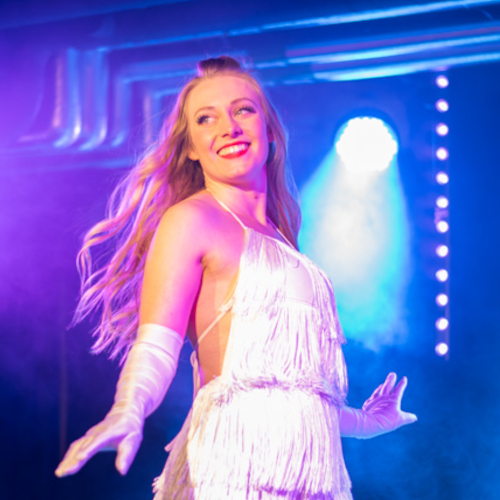
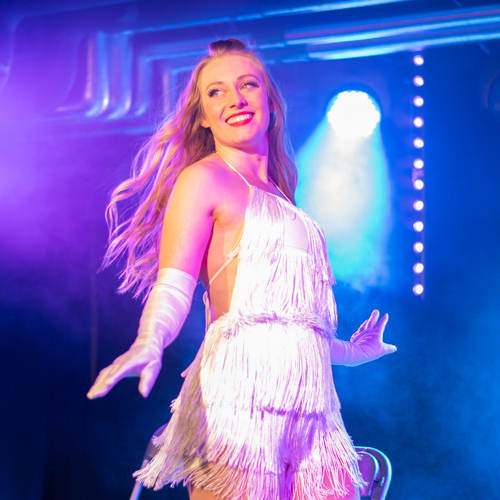
Update Hannas image and FAQ

diff --git a/src/pages/om-oss.vue b/src/pages/om-oss.vue
@@ -49,12 +49,19 @@
       <div class="section__content">
         <h2>Grundare</h2>
         <p>
-          Femme Fusion grundades 2023 av fyra artister med en gemensam vision om att skapa professionell underhållning med dans, sång och stark scennärvaro. Som grundare sätter vi tonen, kvaliteten och uttrycket i det vi gör.
+          Femme Fusion grundades 2023 av fyra artister med en gemensam vision om att skapa professionell underhållning
+          med dans, sång och stark scennärvaro. Som grundare sätter vi tonen, kvaliteten och uttrycket i det vi gör.
         </p>
         <div class="about__members">
           <figure v-for="m in founders" :key="m.name" class="about__member about__member--founder">
-            <NuxtImg :src="m.src" :alt="`Porträtt av ${m.name}, grundare i Femme Fusion`" class="image"
-              sizes="(max-width: 640px) 100vw, (max-width: 1024px) 50vw, 25vw" format="webp" loading="lazy" />
+            <NuxtImg
+              :src="m.src"
+              :alt="`Porträtt av ${m.name}, grundare i Femme Fusion`"
+              class="image"
+              sizes="(max-width: 640px) 100vw, (max-width: 1024px) 50vw, 25vw"
+              format="webp"
+              loading="lazy"
+            />
             <figcaption>
               <strong>{{ m.name }}</strong>
             </figcaption>
@@ -67,12 +74,20 @@
       <div class="section__content">
         <h2>Showartister i Femme Fusion</h2>
         <p>
-          Femme Fusion består av flera showartister som har mångsidiga och varierade bakgrunder inom dans, sång och underhållning. Det gör att vi kan skapa dynamiska och minnesvärda nummer där showens uttryck och omfattning anpassas efter event, publik och scen.
+          Femme Fusion består av flera showartister som har mångsidiga och varierade bakgrunder inom dans, sång och
+          underhållning. Det gör att vi kan skapa dynamiska och minnesvärda nummer där showens uttryck och omfattning
+          anpassas efter event, publik och scen.
         </p>
         <div class="about__members">
           <figure v-for="m in showArtists" :key="m.name" class="about__member about__member--compact">
-            <NuxtImg :src="m.src" :alt="`Porträtt av ${m.name}, showartist i Femme Fusion`" class="image"
-              sizes="(max-width: 640px) 100vw, (max-width: 1024px) 50vw, 33vw" format="webp" loading="lazy" />
+            <NuxtImg
+              :src="m.src"
+              :alt="`Porträtt av ${m.name}, showartist i Femme Fusion`"
+              class="image"
+              sizes="(max-width: 640px) 100vw, (max-width: 1024px) 50vw, 33vw"
+              format="webp"
+              loading="lazy"
+            />
             <figcaption>
               <strong>{{ m.name }}</strong>
               <span class="about__role">{{ m.role }}</span>
@@ -115,7 +130,7 @@ const showArtists = [
 applyPageSeo({
   title: "Femme Fusion - Om oss | Showgrupp från Linköping för event",
   description:
-    "Femme Fusion är en professionell showgrupp från Linköping. Vi levererar dynamiska shower med dans, sång och stark scennärvaro för företagsevent, bröllop, möhippor och privata fester i hela Sverige.",
+    "Femme Fusion är en professionell showgrupp från Linköping. Vi skapar skräddarsydda shower med dans, sång och stark scennärvaro för företagsevent, bröllop, möhippor och privata fester i hela Sverige.",
   path: "/om-oss",
 
   breadcrumbs: [
@@ -124,38 +139,58 @@ applyPageSeo({
 
   ogTitle: "Femme Fusion - Om oss",
   ogDescription:
-    "Professionell showgrupp med dans, sång och stark scennärvaro. Vi uppträder i hela Sverige.",
+    "Lär känna Femme Fusion, grundarna och showartisterna bakom våra skräddarsydda shower för event i hela Sverige.",
 
   twitterTitle: "Femme Fusion - Om oss",
   twitterDescription:
-    "Lär känna showgruppen från Linköping som levererar dans, glamour och scenglans för event i hela Sverige.",
+    "Lär känna showgruppen från Linköping, våra grundare och showartister samt hur vi skapar skräddarsydd underhållning för event.",
 
   faqKey: "faq-om-oss",
   faq: [
     {
       question: "Vad erbjuder ni?",
       answer:
-        "Vi erbjuder scenunderhållning med dans, sång och showinslag för event. Vi håller även dansklasser och workshops.",
+        "Vi erbjuder skräddarsydd scenunderhållning med dans, sång och showinslag för företagsevent, bröllop, möhippor och privata fester. Vi erbjuder också prova på-pass och dansklasser för grupper.",
     },
     {
       question: "Var uppträder ni?",
       answer:
-        "Vi utgår från Linköping men uppträder på event och scener i hela Sverige.",
+        "Vi utgår från Linköping i Östergötland men reser dit bokningarna tar oss och uppträder på event i hela Sverige.",
     },
     {
       question: "Hur lång är en show?",
       answer:
-        "Upplägget anpassas efter ert event. Det kan vara ett kort inslag på några minuter eller flera nummer under kvällen.",
+        "Upplägget anpassas efter ert event och kan bestå av fristående nummer eller en sammanhållen show. Längd och omfattning planeras utifrån publik, tema och körschema.",
     },
     {
       question: "Vad behöver ni på plats?",
       answer:
-        "Fri golvyta och fungerande ljud. Omklädningsmöjlighet är uppskattat. Exakta behov specificeras i bokningsbekräftelsen.",
+        "Behoven varierar beroende på upplägg, lokal och typ av show. Vi samarbetar smidigt kring programförslag, tempo, placering i körschema och praktiska förutsättningar inför bokningen.",
     },
     {
       question: "Hur bokar vi?",
       answer:
         "Skicka en förfrågan via kontaktformuläret och beskriv datum, plats, publik och önskat upplägg så återkommer vi med förslag och offert.",
+    },
+    {
+      question: "Vilka är Femme Fusion?",
+      answer:
+        "Femme Fusion grundades 2023 av fyra artister och består av flera showartister med varierade bakgrunder inom dans, sång och underhållning.",
+    },
+    {
+      question: "Hur anpassar ni era shower?",
+      answer:
+        "Vi skapar skräddarsydda shower som anpassas efter rum, publik, tema och körschema. Det kan vara fristående nummer eller en sammanhållen show.",
+    },
+    {
+      question: "Varför boka Femme Fusion?",
+      answer:
+        "Ni får pålitliga artister som kan scen, publik och logistik. Vi hjälper gärna till med programförslag och samarbetar smidigt med konferencier och teknik.",
+    },
+    {
+      question: "Var utgår ni från?",
+      answer:
+        "Vi utgår från Linköping i Östergötland men reser dit bokningarna tar oss och uppträder i hela Sverige.",
     },
   ],
 });
